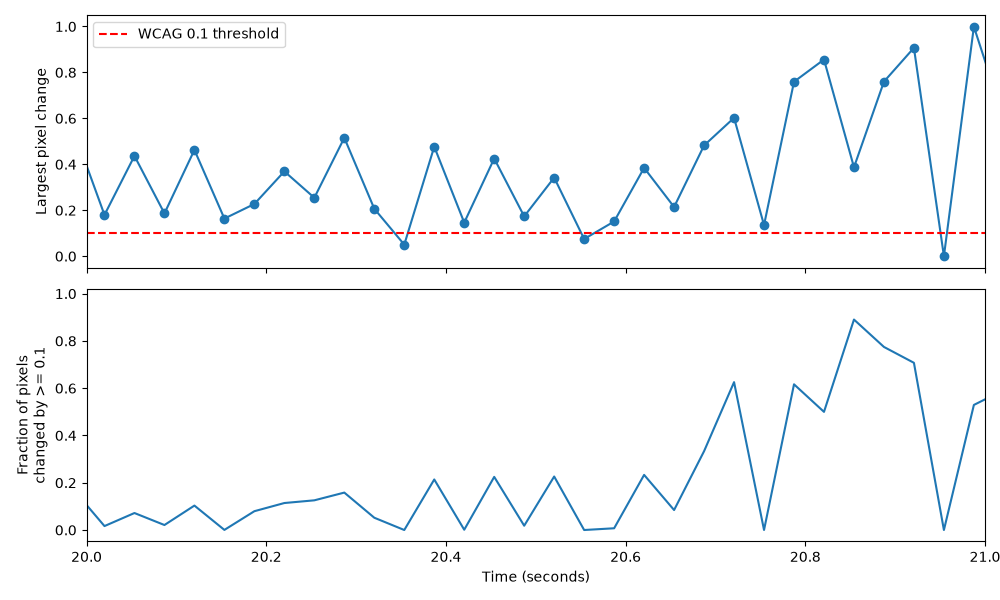
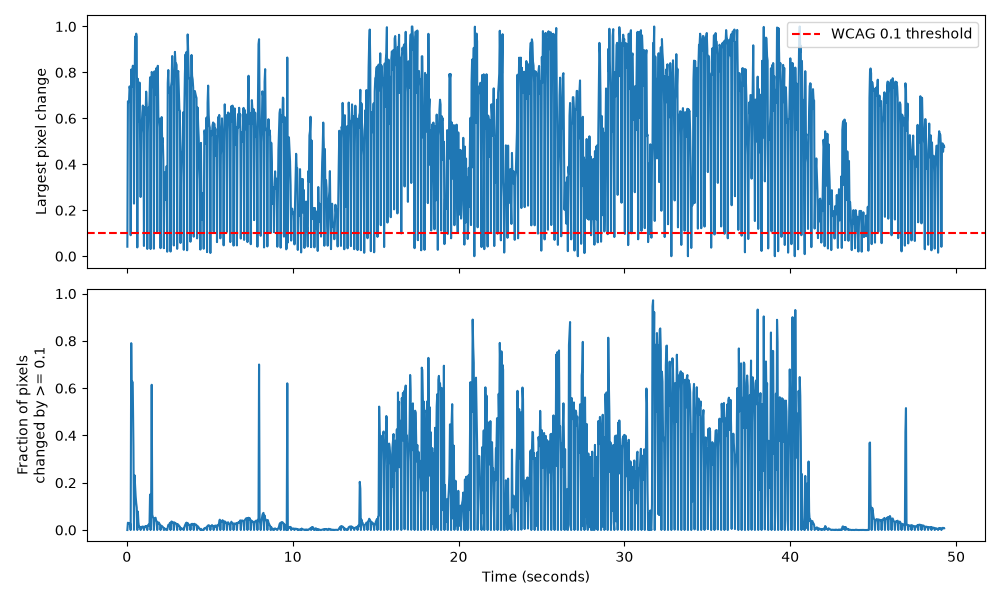
Tidy repo, add synthetic test videos and speed tests

diff --git a/experiments/04_direction.py b/experiments/04_direction.py
@@ -1,0 +1,68 @@
+import cv2
+from luminance import luminance_map
+import numpy as np
+import matplotlib.pyplot as plt
+
+#Loads the video
+cap = cv2.VideoCapture("data/generated/flash_2hz.mp4")
+
+if not cap.isOpened():
+    print("Error: Could not open video file.")
+    exit()
+
+fps = cap.get(cv2.CAP_PROP_FPS)  
+
+
+prev_lum = None
+frame_number = 0
+
+times = []
+max_changes = []
+changed_fractions = []
+change_brighter = []
+change_darker = []
+
+
+while True:
+    ret, frame = cap.read()
+    if not ret:
+       break        # No more frames - end of video
+
+    lum = luminance_map(frame)
+
+    if prev_lum is not None:
+        change = lum - prev_lum
+        abs_change = np.abs(change)     #The change of brightness, ignoring direction
+
+        biggest = abs_change.max()
+
+        fraction = (abs_change >=0.1).mean()
+        brighter_fraction = (change >= +0.1).mean()
+        darker_fraction = (change <= -0.1).mean()
+
+        times.append(frame_number / fps)
+        max_changes.append(biggest)
+        changed_fractions.append(fraction)
+        change_brighter.append(brighter_fraction)
+        change_darker.append(darker_fraction)
+
+    prev_lum = lum
+    frame_number += 1
+
+cap.release()
+print(f"Compared {len(times)} pairs of frames")
+print(f"Largest change in the whole video: {max(max_changes):.3f}")
+
+fig, (brighter, darker) = plt.subplots(2, 1, sharex=True, figsize=(10, 6))
+
+brighter.plot(times, change_brighter)
+brighter.set_ylabel("Fraction of pixels\nchanged by >= 0.1")
+brighter.set_xlabel("Time (seconds)")
+
+darker.plot(times, change_darker)
+darker.set_ylabel("Fraction of pixels\nchanged by <= -0.1")
+darker.set_xlabel("Time (seconds)")
+
+plt.tight_layout()
+plt.savefig("notes/04_flash_2hz.png")
+plt.show()

diff --git a/experiments/05_generate_test_video.py b/experiments/05_generate_test_video.py
@@ -1,0 +1,28 @@
+# Using openCV for generating videos
+# https://opencv.org/reading-and-writing-videos-using-opencv/#h-writing-a-video-in-opencv
+
+import numpy as np
+from luminance import luminance_map
+import cv2
+
+frame1 = np.full((1080, 1920, 3), 64, dtype=np.uint8)
+frame2 = np.full((1080, 1920, 3), 128, dtype=np.uint8)
+
+print(f"Frame 1 Luminance: {luminance_map(frame1)[0, 0]}\n Frame 2 Luminance: {luminance_map(frame2)[0, 0]}\n")
+
+fps = 30
+rate = 5
+duration = 3
+
+writer = cv2.VideoWriter(f"data/generated/flash_{rate}hz_1080p.mp4", cv2.VideoWriter_fourcc(*"mp4v"), fps, (1920, 1080))
+
+
+for i in range (duration*fps):
+    t = i/fps
+    state = int(t * 2 * rate) % 2
+    if(state==0):
+        writer.write(frame1)
+    else:
+        writer.write(frame2)
+
+writer.release()

diff --git a/experiments/06_speed_test.py b/experiments/06_speed_test.py
@@ -1,0 +1,24 @@
+from luminance import luminance_map
+import time
+import cv2
+
+runs = 20
+cap = cv2.VideoCapture("data/generated/flash_5hz_1080p.mp4")
+
+if not cap.isOpened():
+    print("Error: Could not open video file.")
+    exit()
+
+while True:
+    ret, frame = cap.read()
+    if not ret:
+       break
+
+    start = time.perf_counter()
+    for _ in range(runs):
+        small = cv2.resize(frame, (320, 240), interpolation=cv2.INTER_AREA)
+        luminance_map(small)
+    elapsed = time.perf_counter() - start
+
+per_frame_ms = (elapsed / runs) * 1000
+print(f"luminance_map at 1080p: {per_frame_ms:.2f} ms per frame")

diff --git a/experiments/03_frame_differences.py b/experiments/03_frame_differences.py
@@ -28,6 +28,9 @@ while True:
 
     lum = luminance_map(frame)
 
+    if 617 <= frame_number <= 629:
+        cv2.imwrite(f"data/frames/frame_{frame_number}.png", frame)
+
     if prev_lum is not None:
         change = lum - prev_lum
         abs_change = np.abs(change)     #The change of brightness, ignoring direction

diff --git a/notes/2026-20-10.md b/notes/2026-20-10.md
@@ -1,0 +1,36 @@
+## 2026-20-10
+
+### What I did
+
+- 05_generate_test_video.py: generated test videos - full-screen flat grey alternating between two levels at a chosen flash rate
+- Ran the generated videos through 04_direction.py
+- 06_speed_test.py: timed luminance_map on a generated 1080p frame, with and without shrinking first
+
+### Results
+
+- Test greys: 64 -> luminance 0.0513, 128 -> luminance 0.2159 (designed change 0.165, darker state < 0.8)
+- 5 flashes/s video: brighter spikes every 0.2 s, darker spikes every 0.2 s in between, 100% of pixels - matches input exactly
+- 2 flashes/s video: matches input exactly
+- Largest change measured in 5 flashes/s video: 0.159 (designed 0.165) - why?
+- Speed (average of 20 runs):
+  | Test | ms per frame | Fits in 33.3 ms (30 fps)? |
+  | --- | --- | --- |
+  | 320x240 video frame (14 Oct) | 7.0 | Yes |
+  | 1920x1080 full size | 251 | No - ~7.5x too slow |
+  | 1080p resized to 320x240 + luminance | 9.6 | Yes - ~24 ms spare |
+
+### Important lessons
+
+- VideoWriter size is (width, height), array shape is (height, width, 3)
+- i % 2 switches every frame = 15 flashes/s at 30 fps - must use time-based state instead
+
+### Problems
+
+- Test videos largest changes are not correct - why?
+- Resizing loses detail - small flashing regions get averaged with surroundings (needs testing)
+- Resizing can distort images
+
+### Next
+
+- Count transitions per second (merge same-direction changes, ignore duplicate frames)
+- More test videos, one threshold at a time: low contrast (< 0.1), bright darker state (> 0.8), small flashing square

diff --git a/notes/2026-15-10.md b/notes/2026-15-10.md
@@ -1,0 +1,31 @@
+## 2026-15-10
+
+### What I did
+
+- Saved frames 617-629 (20.6-21.0 s) of the Pot Noodle advert with cv2.imwrite and inspected them
+- 04_direction.py: split the change into pixels getting brighter (>= +0.1) and darker (<= -0.1)
+
+### Results
+
+- Still frames: 619 -> 620 image almost completely changes, 620 -> 621 bright yellow to very dark, 620-626 a large flash, 628 -> 629 visibly darker
+- Brighter/darker graph matched the still frames:
+  - 620 -> 621: darker 0.50
+  - 622 -> 625: brighter 0.46, 0.50, 0.89 (one brightening spread over 3 frames)
+  - 625 -> 627: darker 0.77, 0.49
+  - 628 -> 629: darker 0.43
+  - 621 -> 622 and 627 -> 628: no change (duplicate frames)
+
+### Context
+
+- The Pot Noodle advert (Feb 1993) caused 3 reported seizures; the ITC banned it until the flashing was removed, and it led to the UK flashing guidelines (Wikipedia: Computer Graphic (advertisement))
+- It is a known positive test case - the detector should flag the 15-41 s section
+
+### Problems
+
+- Area check uses the whole frame, not WCAG's 25% of a 10-degree field
+- Can't yet tell flashing from motion
+
+### Next
+
+- Count transitions per second
+- Generate synthetic test videos
